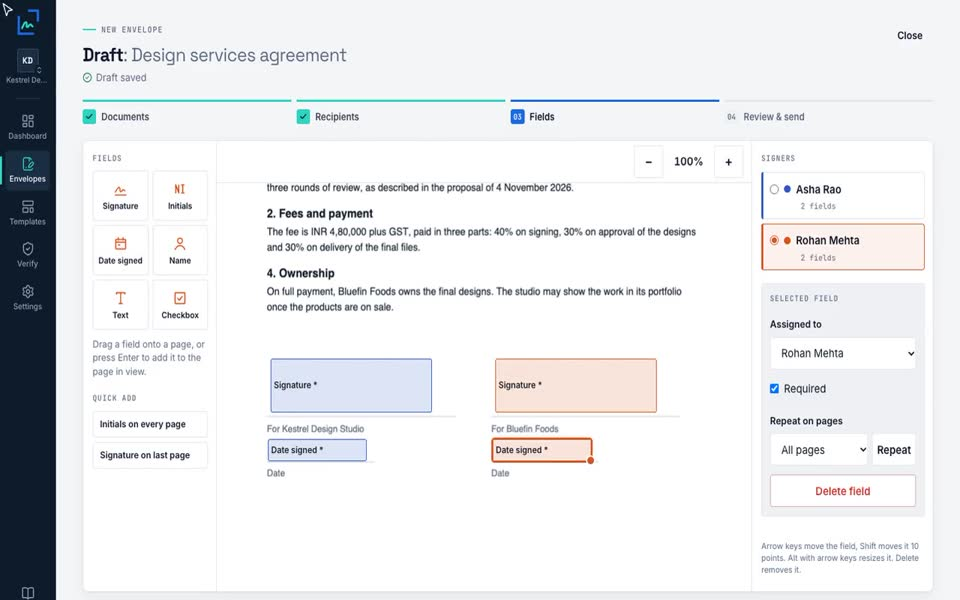
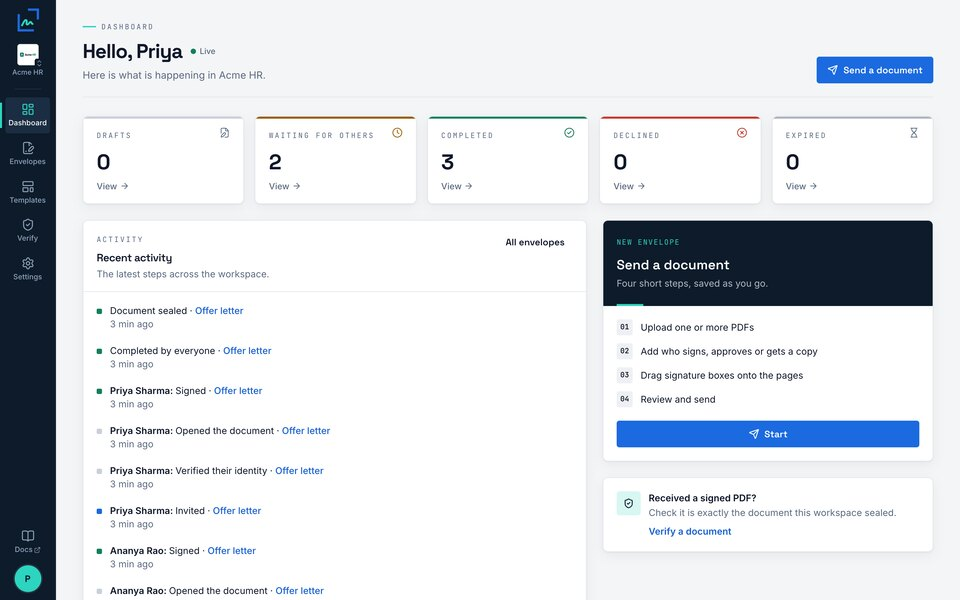
feat(web): show the current headline and dashboard on the share card
The card for /opengraph-image and /twitter-image now matches the home
hero and loads Space Grotesk and Inter from the app's font files.

diff --git a/apps/web/src/app/share-image.tsx b/apps/web/src/app/share-image.tsx
@@ -10,17 +10,31 @@ export const shareSize = { width: 1200, height: 630 };
 const INK = '#0F172A';
 const MUTED = '#5A6980';
 
-/** The four claims under the promise, each in its own colour, as the home page shows them. */
-const PILLS = [
-  { label: 'PAdES seal', bg: '#E6EFFC', fg: '#1860D0' },
-  { label: 'Audit trail', bg: '#DDF7F2', fg: '#0E7466' },
-  { label: 'Aadhaar eSign', bg: '#FDEDE3', fg: '#B4471A' },
-  { label: 'Open source', bg: '#F1E8FB', fg: '#7A35B5' },
+/** The four claims above the promise, each after its own dot, as the home page hero shows them. */
+const CLAIMS = [
+  { label: 'PDF e-signatures', dot: '#1B6AE0' },
+  { label: 'Aadhaar eSign', dot: '#E07A1F' },
+  { label: 'API and webhooks', dot: '#8A3FC2' },
+  { label: 'Self-host', dot: '#12A08A' },
 ];
+
+/** The brand faces as files next/og can read: Inter for the text, Space Grotesk Bold for the promise. */
+async function fonts() {
+  const dir = join(process.cwd(), 'assets/fonts');
+  const [display, text] = await Promise.all([
+    readFile(join(dir, 'SpaceGrotesk-Bold.ttf')),
+    readFile(join(dir, 'Inter-Regular.ttf')),
+  ]);
+  return [
+    { name: 'Inter', data: text, weight: 400 as const, style: 'normal' as const },
+    { name: 'Space Grotesk', data: display, weight: 700 as const, style: 'normal' as const },
+  ];
+}
 
 /**
  * The card shown when the home page is shared, in the light style of the site: the logo, the
- * promise, four claims and the real app in a browser frame. Rendered once at build time.
+ * hero's four claims, the promise and the real dashboard in a browser frame. Rendered once at
+ * build time.
  */
 export async function shareImage() {
   const shot = await readFile(join(process.cwd(), 'src/app/share-shot.jpg'));
@@ -48,7 +62,7 @@ export async function shareImage() {
             flexDirection: 'column',
             justifyContent: 'space-between',
             padding: '60px 0 60px 64px',
-            width: 640,
+            width: 660,
           }}
         >
           <img
@@ -57,45 +71,52 @@ export async function shareImage() {
             width={Math.round((LOCKUP.width * 46) / LOCKUP.height)}
             height={46}
           />
-          <div style={{ display: 'flex', flexDirection: 'column', gap: 20 }}>
+          <div style={{ display: 'flex', flexDirection: 'column', gap: 22 }}>
+            <div style={{ display: 'flex', gap: 16, fontSize: 17 }}>
+              {CLAIMS.map((claim) => (
+                <div key={claim.label} style={{ display: 'flex', alignItems: 'center', gap: 8 }}>
+                  <div style={{ width: 9, height: 9, borderRadius: 9, background: claim.dot }} />
+                  {claim.label}
+                </div>
+              ))}
+            </div>
             <div
               style={{
                 display: 'flex',
                 flexDirection: 'column',
-                fontSize: 54,
+                fontFamily: 'Space Grotesk',
+                fontSize: 52,
                 fontWeight: 700,
-                lineHeight: 1.04,
-                letterSpacing: '-0.03em',
+                lineHeight: 1.06,
+                letterSpacing: '-0.035em',
               }}
             >
               <span>Get documents signed.</span>
               <span style={{ color: BRAND_COLORS.blue }}>Keep the proof.</span>
             </div>
-            <div style={{ fontSize: 25, color: MUTED, lineHeight: 1.4 }}>
-              Signed on any phone, sealed with a certificate anyone can check. Aadhaar eSign built
-              in.
+            <div style={{ fontSize: 21, color: MUTED, lineHeight: 1.45 }}>
+              Send a PDF, people sign on any phone, and you get back a sealed PDF with a certificate
+              anyone can check.
             </div>
           </div>
-          <div style={{ display: 'flex', flexWrap: 'wrap', gap: 8, fontSize: 18, fontWeight: 600 }}>
-            {PILLS.map((pill) => (
-              <div
-                key={pill.label}
-                style={{
-                  padding: '7px 14px',
-                  borderRadius: 999,
-                  background: pill.bg,
-                  color: pill.fg,
-                }}
-              >
-                {pill.label}
-              </div>
-            ))}
+          <div
+            style={{
+              display: 'flex',
+              alignSelf: 'flex-start',
+              padding: '10px 20px',
+              borderRadius: 999,
+              background: BRAND_COLORS.navy,
+              color: '#E2E8F0',
+              fontSize: 18,
+            }}
+          >
+            <span style={{ color: '#7CF0DF', marginRight: 10 }}>$</span>npm i codevibe-sign
           </div>
         </div>
         <div
           style={{
             position: 'absolute',
-            left: 700,
+            left: 728,
             top: 140,
             display: 'flex',
             flexDirection: 'column',
@@ -124,6 +145,6 @@ export async function shareImage() {
         </div>
       </div>
     ),
-    shareSize,
+    { ...shareSize, fonts: await fonts() },
   );
 }

diff --git a/apps/web/src/lib/brand-assets.test.ts b/apps/web/src/lib/brand-assets.test.ts
@@ -205,9 +205,10 @@ describe('the typefaces', () => {
   it('are not overridden by a font named in a component', () => {
     // A workspace may pick the font of its own signing page and emails; that list lives in
     // lib/brand.ts. Emails cannot load fonts, so their layout names system fallbacks after
-    // Inter. Everything else takes the tokens.
+    // Inter. The share image is drawn by next/og, which reads the font files it is given by name.
+    // Everything else takes the tokens.
     const allowed =
-      /(lib\/brand\.ts|lib\/brand-assets\.ts|lib\/email-layout\.ts|app\/globals\.css)$/;
+      /(lib\/brand\.ts|lib\/brand-assets\.ts|lib\/email-layout\.ts|app\/globals\.css|app\/share-image\.tsx)$/;
     const named = sources(join(web, 'src'))
       .filter((file) => !allowed.test(file))
       .flatMap((file) =>

diff --git a/CHANGELOG.md b/CHANGELOG.md
@@ -111,6 +111,8 @@ the minor version and says so in its first line.
   `pnpm assets:build`, from screenshots of the app with sample data.
 - The README shows the current app: a new banner and demo, the plans, Aadhaar eSign, and the
   verify page with the published seal certificate. The package banners share one style.
+- The home page share card uses the hero's headline and claims in Space Grotesk and Inter, with
+  the current dashboard.
 
 ---
 
